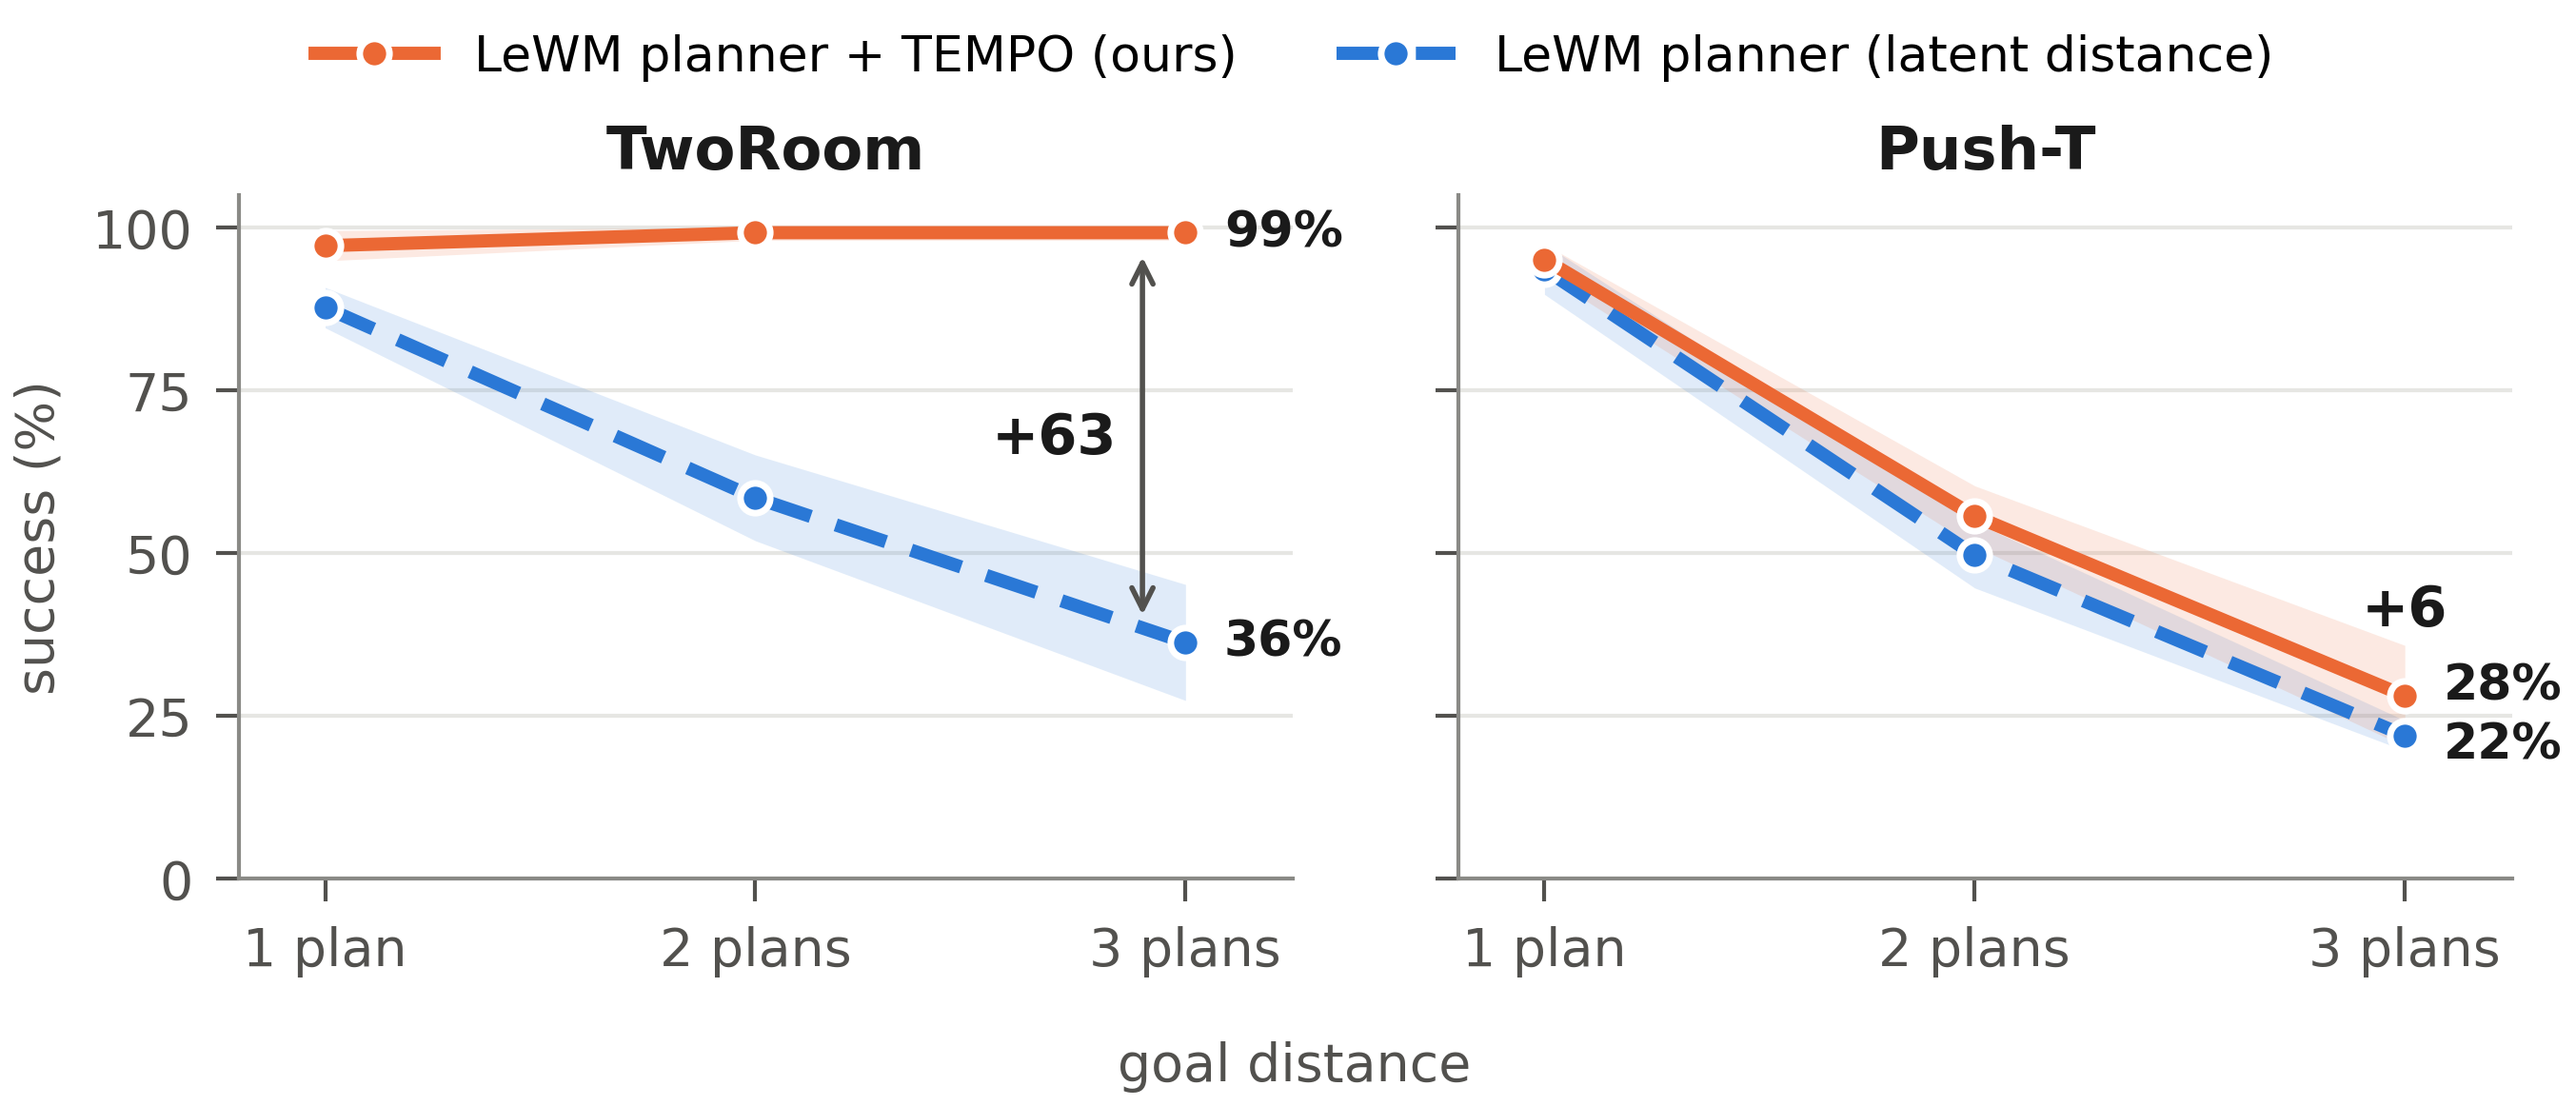
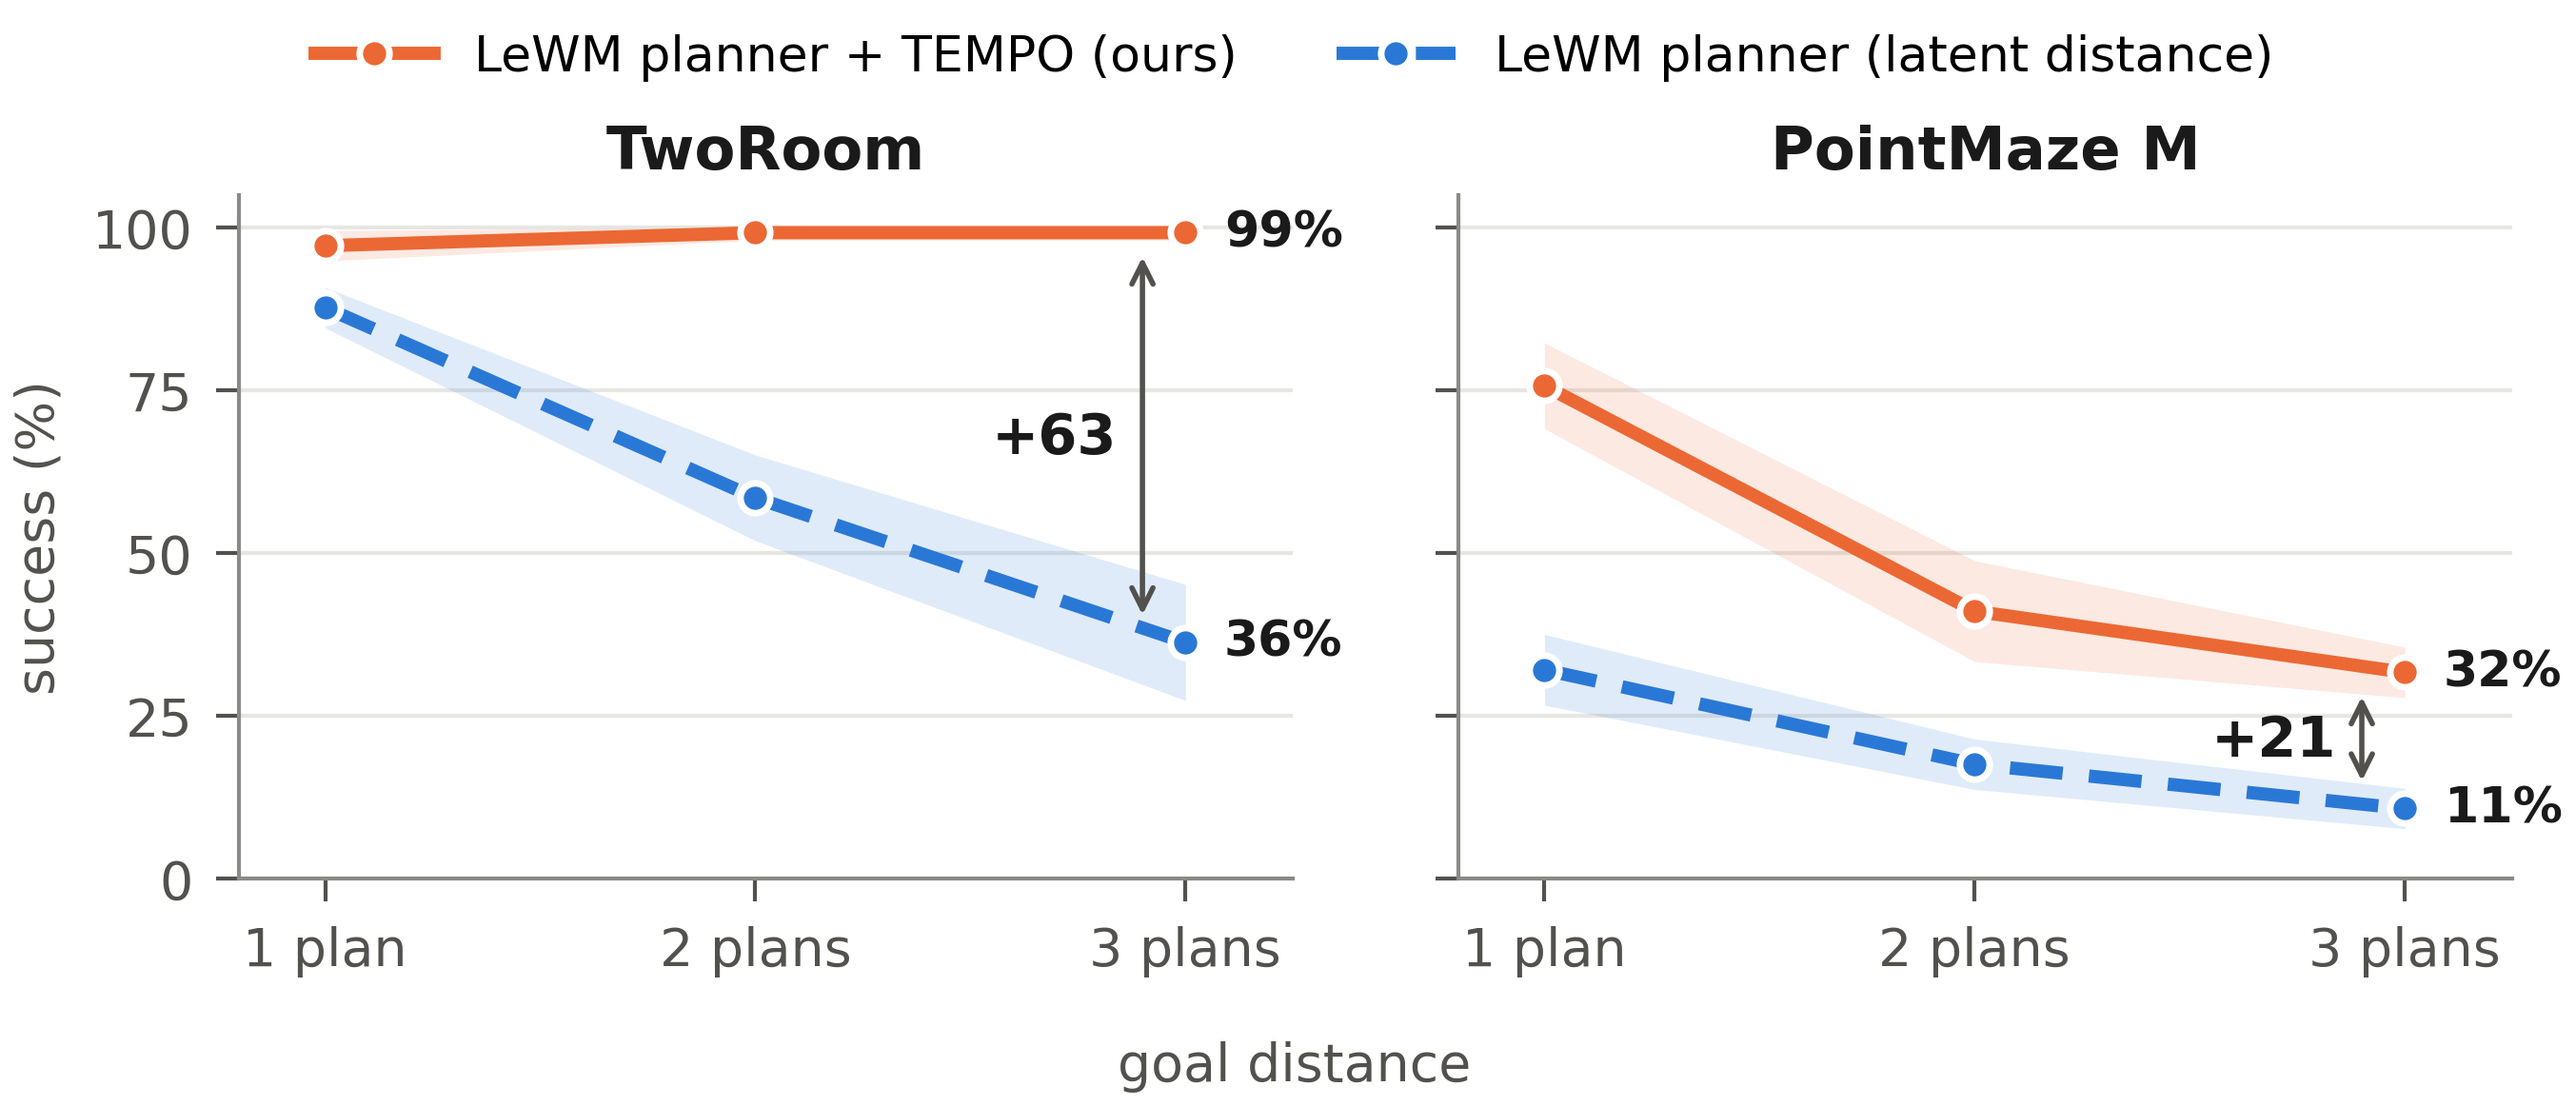
Problem curves: PointMaze M in place of Push-T

Changed region(s): [[0.5898, 0.2169, 0.9933, 0.7435], [0.6829, 0.0929, 0.8692, 0.1549]]

diff --git a/index.html b/index.html
@@ -84,7 +84,7 @@
       the goal. Up close that works. Move the goal a few plans away and success collapses.</p>
 
     <figure class="card figure problem-curve">
-      <img src="./static/images/fig_problem_curves.png" alt="Success against goal distance. TwoRoom: the LeWM planner falls from 88% to 36%, with TEMPO 97% to 99%. Push-T: 94% to 22%, with TEMPO 95% to 28%.">
+      <img src="./static/images/fig_problem_curves.png" alt="Success against goal distance. TwoRoom: the LeWM planner falls from 88% to 36%, with TEMPO 97% to 99%. PointMaze M: 32% to 11%, with TEMPO 76% to 32%.">
       <figcaption>Success as the goal moves from one to three plans away (25 to 75 steps), LeWM planner with and without TEMPO.</figcaption>
     </figure>
 
